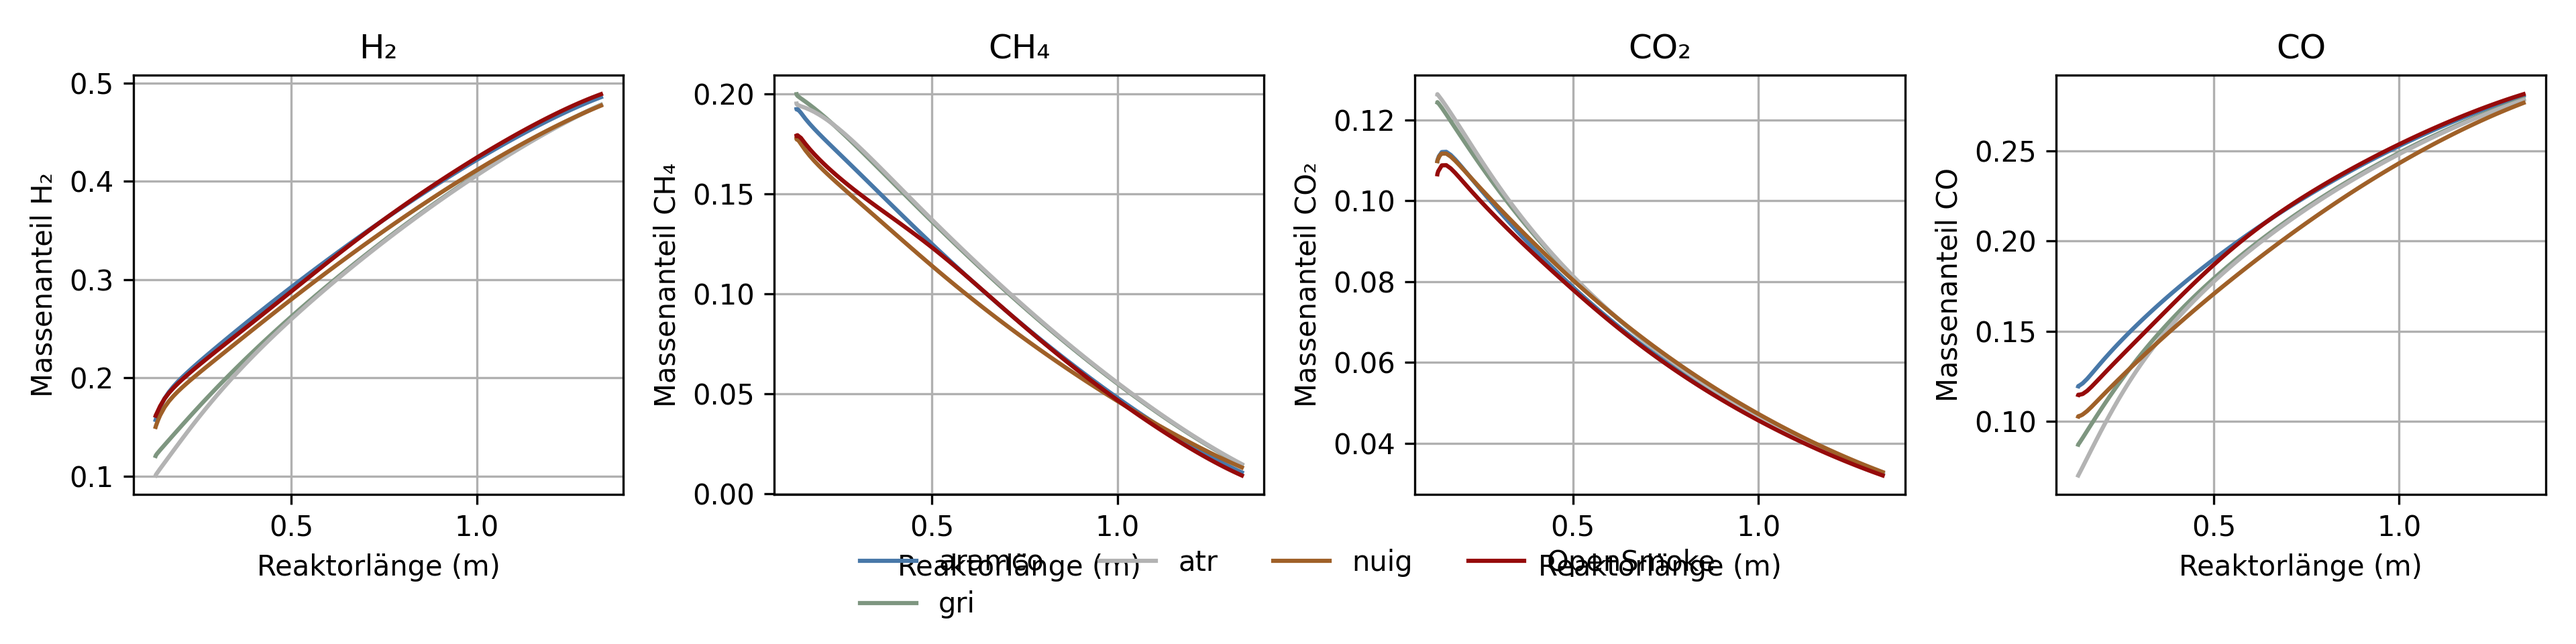
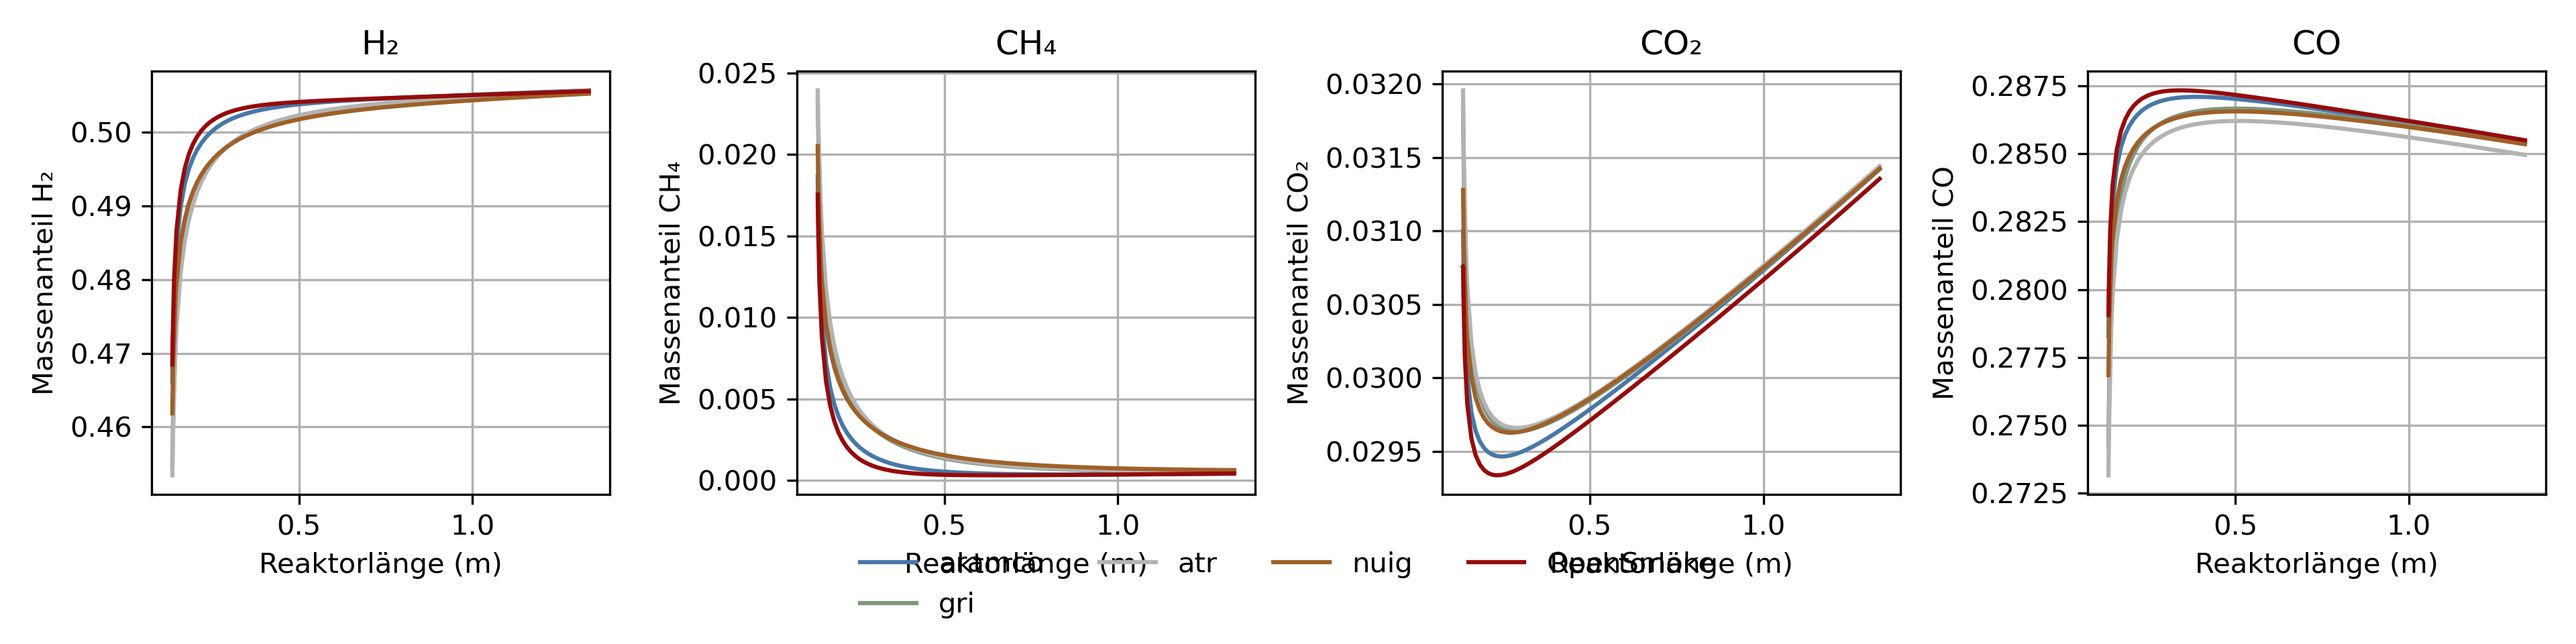
PC Pool Zeche
Durchführen mehrerer simulationen
Anpassen Code an csv-Ausgabe
Plots verändert

diff --git a/Scripts/Auswertungen/Vergleich_ChemistrySet/Auswertung_Mechanismus.py b/Scripts/Auswertungen/Vergleich_ChemistrySet/Auswertung_Mechanismus.py
@@ -71,7 +71,8 @@ exp_data = {
 }
 
 df_exp_data = pd.DataFrame(exp_data, index = ["H2", "CO", "CH4", "CO2"])
-#%% Einlesen der Dataframes 
+#%% Einlesen der Dataframes aus excel (alt)
+"""
 df_co2_aramco_pfr = pd.read_excel('Daten/Aramco_CO2.xlsm', sheet_name='2.soln_no_1_PFRC2', decimal=',')
 df_co2_gri_pfr = pd.read_excel('Daten/GRI_CO2.xlsm', sheet_name= '2.soln_no_1_PFRC2', decimal=',')
 df_co2_atr_pfr = pd.read_excel('Daten/ATR_CO2.xlsm', sheet_name= '2.soln_no_1_PFRC2', decimal=',')
@@ -83,12 +84,26 @@ df_no_co2_gri_pfr = pd.read_excel('Daten/GRI_keinCO2.xlsm', sheet_name= '2.soln_
 df_no_co2_atr_pfr = pd.read_excel('Daten/ATR_keinCO2.xlsm', sheet_name= '2.soln_no_1_PFRC2', decimal=',')
 df_no_co2_nuig_pfr = pd.read_excel('Daten/NUIG_keinCO2.xlsm', sheet_name= '2.soln_no_1_PFRC2', decimal=',')
 df_no_co2_smoke_pfr = pd.read_excel('Daten/OpenSmoke_keinCO2.xlsm', sheet_name= '2.soln_no_1_PFRC2', decimal=',')
+"""
+
+#%% Einlesen der Dataframes aus csv
+df_co2_aramco_pfr = pd.read_csv('Daten_neu/Aramco/CO2/2.soln_no_1_PFRC2.csv')
+df_co2_gri_pfr = pd.read_csv('Daten_neu/GRI/CO2/2.soln_no_1_PFRC2.csv')
+df_co2_atr_pfr = pd.read_csv('Daten_neu/ATR/CO2/2.soln_no_1_PFRC2.csv')
+df_co2_nuig_pfr = pd.read_csv('Daten_neu/NUIG/CO2/2.soln_no_1_PFRC2.csv')
+df_co2_smoke_pfr = pd.read_csv('Daten_neu/CRECK/CO2/2.soln_no_1_PFRC2.csv')
+
+df_no_co2_aramco_pfr = pd.read_csv('Daten_neu/Aramco/kein_CO2/2.soln_no_1_PFRC2.csv')
+df_no_co2_gri_pfr = pd.read_csv('Daten_neu/GRI/kein_CO2/2.soln_no_1_PFRC2.csv')
+df_no_co2_atr_pfr = pd.read_csv('Daten_neu/ATR/kein_CO2/2.soln_no_1_PFRC2.csv')
+df_no_co2_nuig_pfr = pd.read_csv('Daten_neu/NUIG/kein_CO2/2.soln_no_1_PFRC2.csv')
+df_no_co2_smoke_pfr = pd.read_csv('Daten_neu/CRECK/kein_CO2/2.soln_no_1_PFRC2.csv')
 #%% Arrays CO2
 dist_pfr_aramco_co2 = df_co2_aramco_pfr['Distance_PFRC2_(m)']
 dist_pfr_gri_co2 = df_co2_gri_pfr['Distance_PFRC2_(m)']
 dist_pfr_atr_co2 = df_co2_atr_pfr['Distance_PFRC2_(m)']
 dist_pfr_nuig_co2 = df_co2_nuig_pfr['Distance_PFRC2_(m)']
-dist_pfr_smoke_co2 = df_co2_smoke_pfr['Distance_PFRC2_(cm)']
+dist_pfr_smoke_co2 = df_co2_smoke_pfr['Distance_PFRC2_(m)']
 
 temp_pfr_aramco_co2 = df_co2_aramco_pfr[' Temperature_PFRC2_(K)']
 temp_pfr_gri_co2 = df_co2_gri_pfr[' Temperature_PFRC2_(K)']
@@ -269,7 +284,7 @@ axs[0, 0].plot(dist_pfr_aramco_co2, x_CO_pfr_aramco_co2, label='aramco', color=c
 axs[0, 0].plot(dist_pfr_gri_co2, x_CO_pfr_gri_co2, label='gri', color=colors[1])
 axs[0, 0].plot(dist_pfr_atr_co2, x_CO_pfr_atr_co2, label='atr', color=colors[2])
 axs[0, 0].plot(dist_pfr_nuig_co2, x_CO_pfr_nuig_co2, label='nuig', color=colors[3])
-axs[0, 0].plot(dist_pfr_smoke_co2 * 0.01, x_CO_pfr_smoke_co2, label='OpenSmoke', color=colors[4]) #cm in m umrechnen
+axs[0, 0].plot(dist_pfr_smoke_co2, x_CO_pfr_smoke_co2, label='OpenSmoke', color=colors[4]) #cm in m umrechnen
 axs[0, 0].set_xlabel("Reaktorlänge (m)")
 axs[0, 0].set_ylabel("Massenanteil CO")
 axs[0, 0].set_title("CO")
@@ -281,7 +296,7 @@ axs[0, 1].plot(dist_pfr_aramco_co2, x_CO2_pfr_aramco_co2, label='aramco', color=
 axs[0, 1].plot(dist_pfr_gri_co2, x_CO2_pfr_gri_co2, label='gri', color=colors[1])
 axs[0, 1].plot(dist_pfr_atr_co2, x_CO2_pfr_atr_co2, label='atr', color=colors[2])
 axs[0, 1].plot(dist_pfr_nuig_co2, x_CO2_pfr_nuig_co2, label='nuig', color=colors[3])
-axs[0, 1].plot(dist_pfr_smoke_co2 * 0.01, x_CO2_pfr_smoke_co2, label='OpenSmoke', color=colors[4]) #cm in m umrechnen
+axs[0, 1].plot(dist_pfr_smoke_co2 , x_CO2_pfr_smoke_co2, label='OpenSmoke', color=colors[4]) #cm in m umrechnen
 axs[0, 1].set_xlabel("Reaktorlänge (m)")
 axs[0, 1].set_ylabel("Massenanteil CO₂")
 axs[0, 1].set_title("CO₂")
@@ -293,7 +308,7 @@ axs[1, 0].plot(dist_pfr_aramco_co2, x_H2_pfr_aramco_co2, label='aramco', color=c
 axs[1, 0].plot(dist_pfr_gri_co2, x_H2_pfr_gri_co2, label='gri', color=colors[1])
 axs[1, 0].plot(dist_pfr_atr_co2, x_H2_pfr_atr_co2, label='atr', color=colors[2])
 axs[1, 0].plot(dist_pfr_nuig_co2, x_H2_pfr_nuig_co2, label='nuig', color=colors[3])
-axs[1, 0].plot(dist_pfr_smoke_co2 * 0.01, x_H2_pfr_smoke_co2, label='OpenSmoke', color=colors[4]) #cm in m umrechnen
+axs[1, 0].plot(dist_pfr_smoke_co2 , x_H2_pfr_smoke_co2, label='OpenSmoke', color=colors[4]) #cm in m umrechnen
 axs[1, 0].set_xlabel("Reaktorlänge (m)")
 axs[1, 0].set_ylabel("Massenanteil H₂")
 axs[1, 0].set_title("H₂")
@@ -305,7 +320,7 @@ axs[1, 1].plot(dist_pfr_aramco_co2, x_CH4_pfr_aramco_co2, label='aramco', color=
 axs[1, 1].plot(dist_pfr_gri_co2, x_CH4_pfr_gri_co2, label='gri', color=colors[1])
 axs[1, 1].plot(dist_pfr_atr_co2, x_CH4_pfr_atr_co2, label='atr', color=colors[2])
 axs[1, 1].plot(dist_pfr_nuig_co2, x_CH4_pfr_nuig_co2, label='nuig', color=colors[3])
-axs[1, 1].plot(dist_pfr_smoke_co2 * 0.01, x_CH4_pfr_smoke_co2, label='OpenSmoke', color=colors[4]) #cm in m umrechnen
+axs[1, 1].plot(dist_pfr_smoke_co2 , x_CH4_pfr_smoke_co2, label='OpenSmoke', color=colors[4]) #cm in m umrechnen
 axs[1, 1].set_xlabel("Reaktorlänge (m)")
 axs[1, 1].set_ylabel("Massenanteil CH₄")
 axs[1, 1].set_title("CH₄")

diff --git a/Scripts/Auswertungen/Erweiterungen/Auswertung_Erweiterung.py b/Scripts/Auswertungen/Erweiterungen/Auswertung_Erweiterung.py
@@ -36,7 +36,7 @@ def get_normalized_composition_strict(df, column_map):
     comp_series = comp_series / comp_series.sum()
     return comp_series
 
-#%% Dataframes einlesen
+#%% Dataframes einlesen Excel (alt)
 """
 letzter PFR:
 1: PFRC2 
@@ -45,11 +45,11 @@ letzter PFR:
 4: PFRC7
 """
 
-df_co2_1_pfr_Masse = pd.read_excel('Daten/1_CO2_Masse.xlsm', sheet_name='2.soln_no_1_PFRC2')
-df_co2_1_pfr_Stoffmenge = pd.read_excel('Daten/1_CO2_Stoffmenge.xlsm', sheet_name='2.soln_no_1_PFRC2')
+#df_co2_1_pfr_Masse = pd.read_excel('Daten/1_CO2_Masse.xlsm', sheet_name='2.soln_no_1_PFRC2')
+#df_co2_1_pfr_Stoffmenge = pd.read_excel('Daten/1_CO2_Stoffmenge.xlsm', sheet_name='2.soln_no_1_PFRC2')
 
-df_co2_2_pfr_Masse = pd.read_excel('Daten/2_CO2_Masse.xlsm', sheet_name='9.soln_no_1_PFRC4')
-df_co2_2_pfr_Stoffmenge = pd.read_excel('Daten/2_CO2_Stoffmenge.xlsm', sheet_name='9.soln_no_1_PFRC4')
+#df_co2_2_pfr_Masse = pd.read_excel('Daten/2_CO2_Masse.xlsm', sheet_name='9.soln_no_1_PFRC4')
+#df_co2_2_pfr_Stoffmenge = pd.read_excel('Daten/2_CO2_Stoffmenge.xlsm', sheet_name='9.soln_no_1_PFRC4')
 
 df_co2_3_pfr8_Masse = pd.read_excel('Daten/3_CO2_Masse.xlsm', sheet_name='24.soln_no_1_PFRC8')
 df_co2_3_pfr8_Stoffmenge = pd.read_excel('Daten/3_CO2_Stoffmenge.xlsm', sheet_name='24.soln_no_1_PFRC8')
@@ -83,6 +83,13 @@ df_no_co2_4_pfr7_Stoffmenge = pd.read_excel('Daten/4_kein_CO2_Stoffmenge.xlsm', 
 df_no_co2_6_pfr3_Masse = pd.read_excel('Daten/6_kein_CO2_Masse.xlsm', sheet_name='6.soln_no_1_PFRC3')
 df_no_co2_6_pfr3_Stoffmenge = pd.read_excel('Daten/6_kein_CO2_Stoffmenge.xlsm', sheet_name='6.soln_no_1_PFRC3')
 
+#%% Dataframes einlesen csv
+
+df_co2_1_pfr_Stoffmenge = pd.read_csv('Daten_neu/1/CO2/Stoffmenge/2.soln_no_1_PFRC2.csv')
+df_co2_1_pfr_Masse = pd.read_csv('Daten_neu/1/CO2/Masse/2.soln_no_1_PFRC2.csv')
+
+df_co2_2_pfr_Stoffmenge = pd.read_csv('Daten_neu/2/CO2/Stoffmenge/9.soln_no_1_PFRC4.csv')
+df_co2_2_pfr_Masse = pd.read_csv('Daten_neu/2/CO2/Masse/9.soln_no_1_PFRC4.csv')
 
 #%% Daten vorbereiten 
 x_h2_co2_1 = df_co2_1_pfr_Stoffmenge[" Mole_fraction_H2_PFRC2_()"]

diff --git a/Scripts/Auswertungen/Vergleich_ChemistrySet/Tabellen/Tabelle_MSE_noCO2.tex b/Scripts/Auswertungen/Vergleich_ChemistrySet/Tabellen/Tabelle_MSE_noCO2.tex
@@ -1,10 +1,10 @@
 \begin{tabular}{c | c | c | c | c}
 \hline
 GRI_noCO2 & ARAMCO_noCO2 & ATR_noCO2 & NUIG_noCO2 & Smoke_noCO2 \\ \hline
-0,00002 & 0,00000 & 0,00002 & 0,00001 & 0,00001 \\
-0,00004 & 0,00004 & 0,00003 & 0,00003 & 0,00004 \\
-0,00012 & 0,00004 & 0,00013 & 0,00009 & 0,00002 \\
-0,00006 & 0,00007 & 0,00006 & 0,00005 & 0,00007 \\
-0,00006 & 0,00004 & 0,00006 & 0,00004 & 0,00003 \\
+0,00023 & 0,00024 & 0,00025 & 0,00023 & 0,00024 \\
+0,00003 & 0,00003 & 0,00003 & 0,00003 & 0,00004 \\
+0,00004 & 0,00004 & 0,00004 & 0,00004 & 0,00004 \\
+0,00010 & 0,00010 & 0,00010 & 0,00010 & 0,00010 \\
+0,00010 & 0,00010 & 0,00010 & 0,00010 & 0,00010 \\
 \hline
 \end{tabular}

diff --git a/Scripts/Auswertungen/Vergleich_ChemistrySet/Tabellen/Tabelle_MSE_noCO2_species.tex b/Scripts/Auswertungen/Vergleich_ChemistrySet/Tabellen/Tabelle_MSE_noCO2_species.tex
@@ -1,10 +1,10 @@
 \begin{tabular}{c | c | c | c | c}
 \hline
 GRI_noCO2 & ARAMCO_noCO2 & ATR_noCO2 & NUIG_noCO2 & Smoke_noCO2 \\ \hline
-0,00002 & 0,00000 & 0,00002 & 0,00001 & 0,00001 \\
-0,00004 & 0,00004 & 0,00003 & 0,00003 & 0,00004 \\
-0,00012 & 0,00004 & 0,00013 & 0,00009 & 0,00002 \\
-0,00006 & 0,00007 & 0,00006 & 0,00005 & 0,00007 \\
-0,00006 & 0,00004 & 0,00006 & 0,00004 & 0,00003 \\
+0,00023 & 0,00024 & 0,00025 & 0,00023 & 0,00024 \\
+0,00003 & 0,00003 & 0,00003 & 0,00003 & 0,00004 \\
+0,00004 & 0,00004 & 0,00004 & 0,00004 & 0,00004 \\
+0,00010 & 0,00010 & 0,00010 & 0,00010 & 0,00010 \\
+0,00010 & 0,00010 & 0,00010 & 0,00010 & 0,00010 \\
 \hline
 \end{tabular}

diff --git a/Scripts/Auswertungen/Vergleich_ChemistrySet/Tabellen/Tabelle_Vergleich_keinCO2.tex b/Scripts/Auswertungen/Vergleich_ChemistrySet/Tabellen/Tabelle_Vergleich_keinCO2.tex
@@ -1,9 +1,9 @@
 \begin{tabular}{c | c | c | c | c | c}
 \hline
 kein CO2 Exp & GRI_noCO2 & ARAMCO_noCO2 & ATR_noCO2 & NUIG_noCO2 & Smoke_noCO2 \\ \hline
-0,599 & 0,594 & 0,600 & 0,594 & 0,596 & 0,602 \\
-0,341 & 0,347 & 0,347 & 0,347 & 0,346 & 0,347 \\
-0,007 & 0,018 & 0,013 & 0,018 & 0,016 & 0,011 \\
-0,048 & 0,041 & 0,040 & 0,041 & 0,041 & 0,039 \\
+0,599 & 0,614 & 0,614 & 0,615 & 0,614 & 0,614 \\
+0,341 & 0,347 & 0,347 & 0,346 & 0,347 & 0,347 \\
+0,007 & 0,001 & 0,000 & 0,001 & 0,001 & 0,001 \\
+0,048 & 0,038 & 0,038 & 0,038 & 0,038 & 0,038 \\
 \hline
 \end{tabular}

diff --git a/Scripts/Auswertungen/Vergleich_ChemistrySet/Tabellen/Tabelle_MSE_CO2.tex b/Scripts/Auswertungen/Vergleich_ChemistrySet/Tabellen/Tabelle_MSE_CO2.tex
@@ -1,9 +1,9 @@
 \begin{tabular}{c | c | c | c | c}
 \hline
 GRI_CO2 & ARAMCO_CO2 & ATR_CO2 & NUIG_CO2 & Smoke_CO2 \\ \hline
-0,42154 & 0,42548 & 0,42171 & 0,42035 & 0,42893 \\
-0,44442 & 0,44426 & 0,44401 & 0,44437 & 0,44438 \\
-0,00469 & 0,00222 & 0,00488 & 0,00477 & 0,00005 \\
-0,12934 & 0,12804 & 0,12941 & 0,13051 & 0,12664 \\
+0,42905 & 0,42905 & 0,42951 & 0,42903 & 0,42893 \\
+0,44408 & 0,44408 & 0,44366 & 0,44415 & 0,44438 \\
+0,00005 & 0,00005 & 0,00005 & 0,00004 & 0,00005 \\
+0,12682 & 0,12683 & 0,12678 & 0,12678 & 0,12664 \\
 \hline
 \end{tabular}

diff --git a/Scripts/Auswertungen/Vergleich_ChemistrySet/Tabellen/Tabelle_MSE_CO2_species.tex b/Scripts/Auswertungen/Vergleich_ChemistrySet/Tabellen/Tabelle_MSE_CO2_species.tex
@@ -1,9 +1,9 @@
 \begin{tabular}{c | c | c | c | c}
 \hline
 GRI_CO2 & ARAMCO_CO2 & ATR_CO2 & NUIG_CO2 & Smoke_CO2 \\ \hline
-0,42154 & 0,42548 & 0,42171 & 0,42035 & 0,42893 \\
-0,44442 & 0,44426 & 0,44401 & 0,44437 & 0,44438 \\
-0,00469 & 0,00222 & 0,00488 & 0,00477 & 0,00005 \\
-0,12934 & 0,12804 & 0,12941 & 0,13051 & 0,12664 \\
+0,42905 & 0,42905 & 0,42951 & 0,42903 & 0,42893 \\
+0,44408 & 0,44408 & 0,44366 & 0,44415 & 0,44438 \\
+0,00005 & 0,00005 & 0,00005 & 0,00004 & 0,00005 \\
+0,12682 & 0,12683 & 0,12678 & 0,12678 & 0,12664 \\
 \hline
 \end{tabular}

diff --git a/Scripts/Auswertungen/Vergleich_ChemistrySet/Tabellen/Tabelle_Vergleich_CO2.tex b/Scripts/Auswertungen/Vergleich_ChemistrySet/Tabellen/Tabelle_Vergleich_CO2.tex
@@ -1,9 +1,9 @@
 \begin{tabular}{c | c | c | c | c | c}
 \hline
 CO2 Exp & GRI_CO2 & ARAMCO_CO2 & ATR_CO2 & NUIG_CO2 & Smoke_CO2 \\ \hline
-0,416 & 0,422 & 0,425 & 0,422 & 0,420 & 0,429 \\
+0,416 & 0,429 & 0,429 & 0,430 & 0,429 & 0,429 \\
 0,424 & 0,444 & 0,444 & 0,444 & 0,444 & 0,444 \\
-0,001 & 0,005 & 0,002 & 0,005 & 0,005 & 0,000 \\
-0,151 & 0,129 & 0,128 & 0,129 & 0,131 & 0,127 \\
+0,001 & 0,000 & 0,000 & 0,000 & 0,000 & 0,000 \\
+0,151 & 0,127 & 0,127 & 0,127 & 0,127 & 0,127 \\
 \hline
 \end{tabular}
